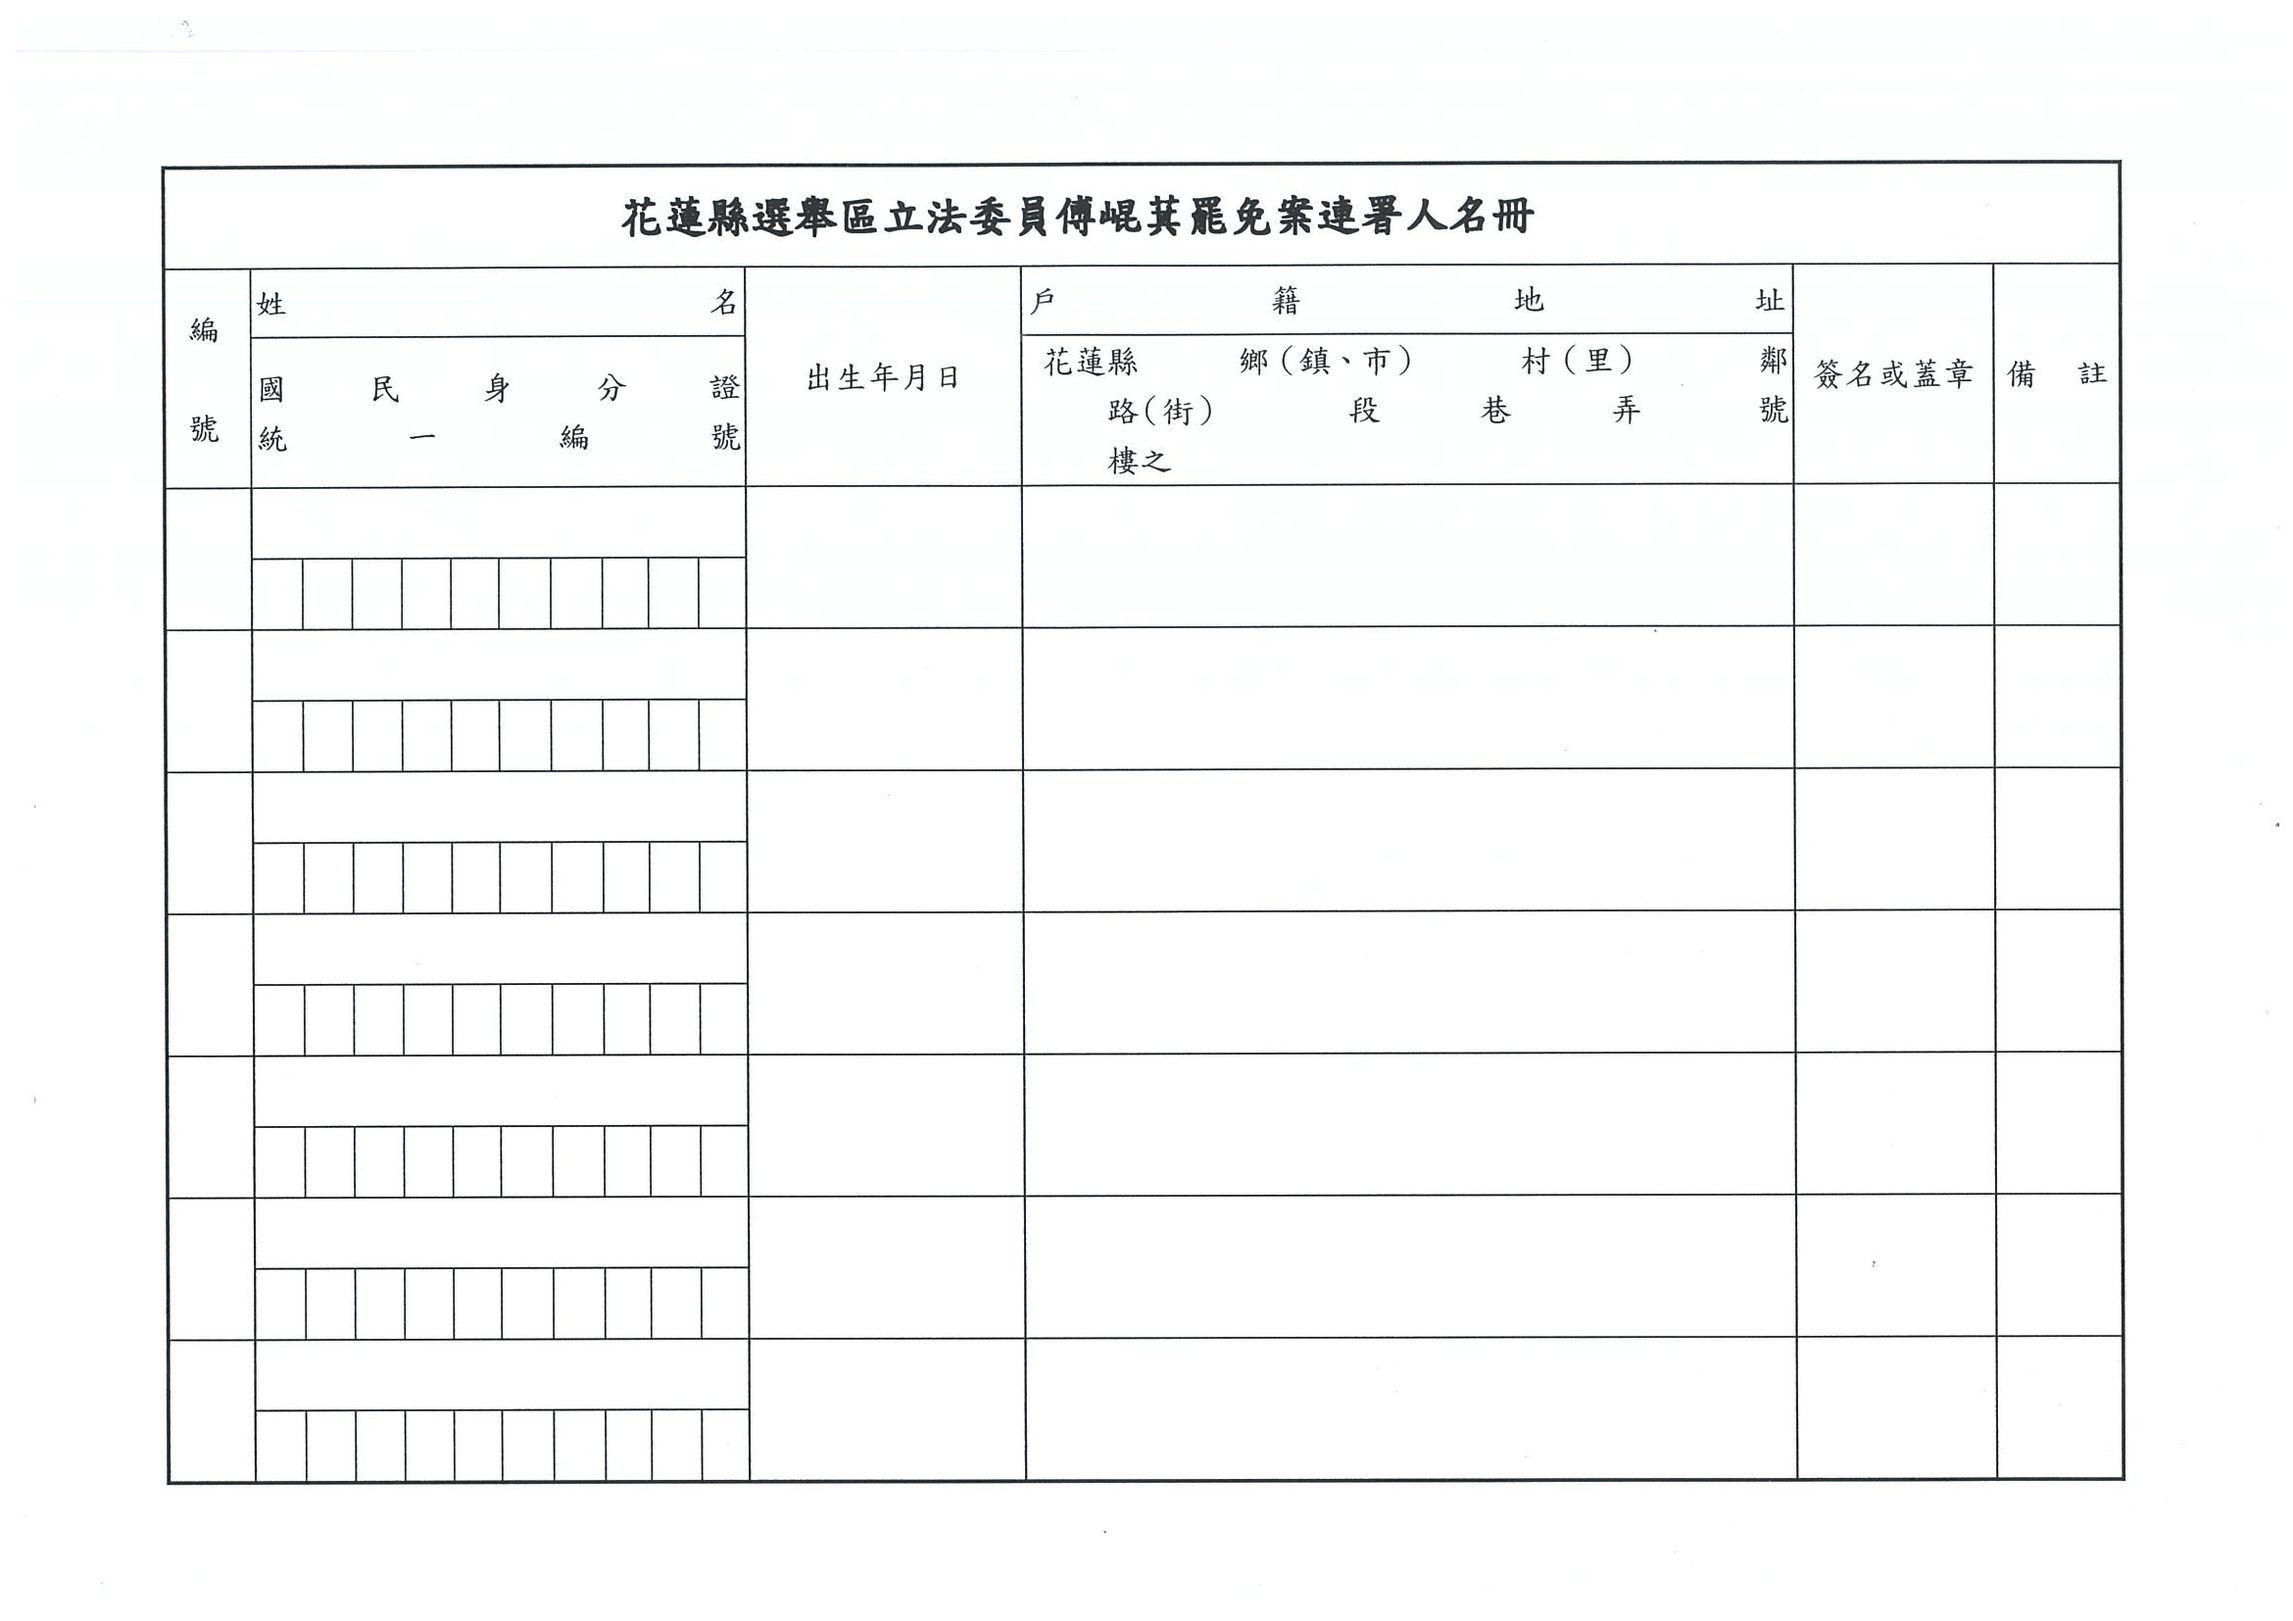
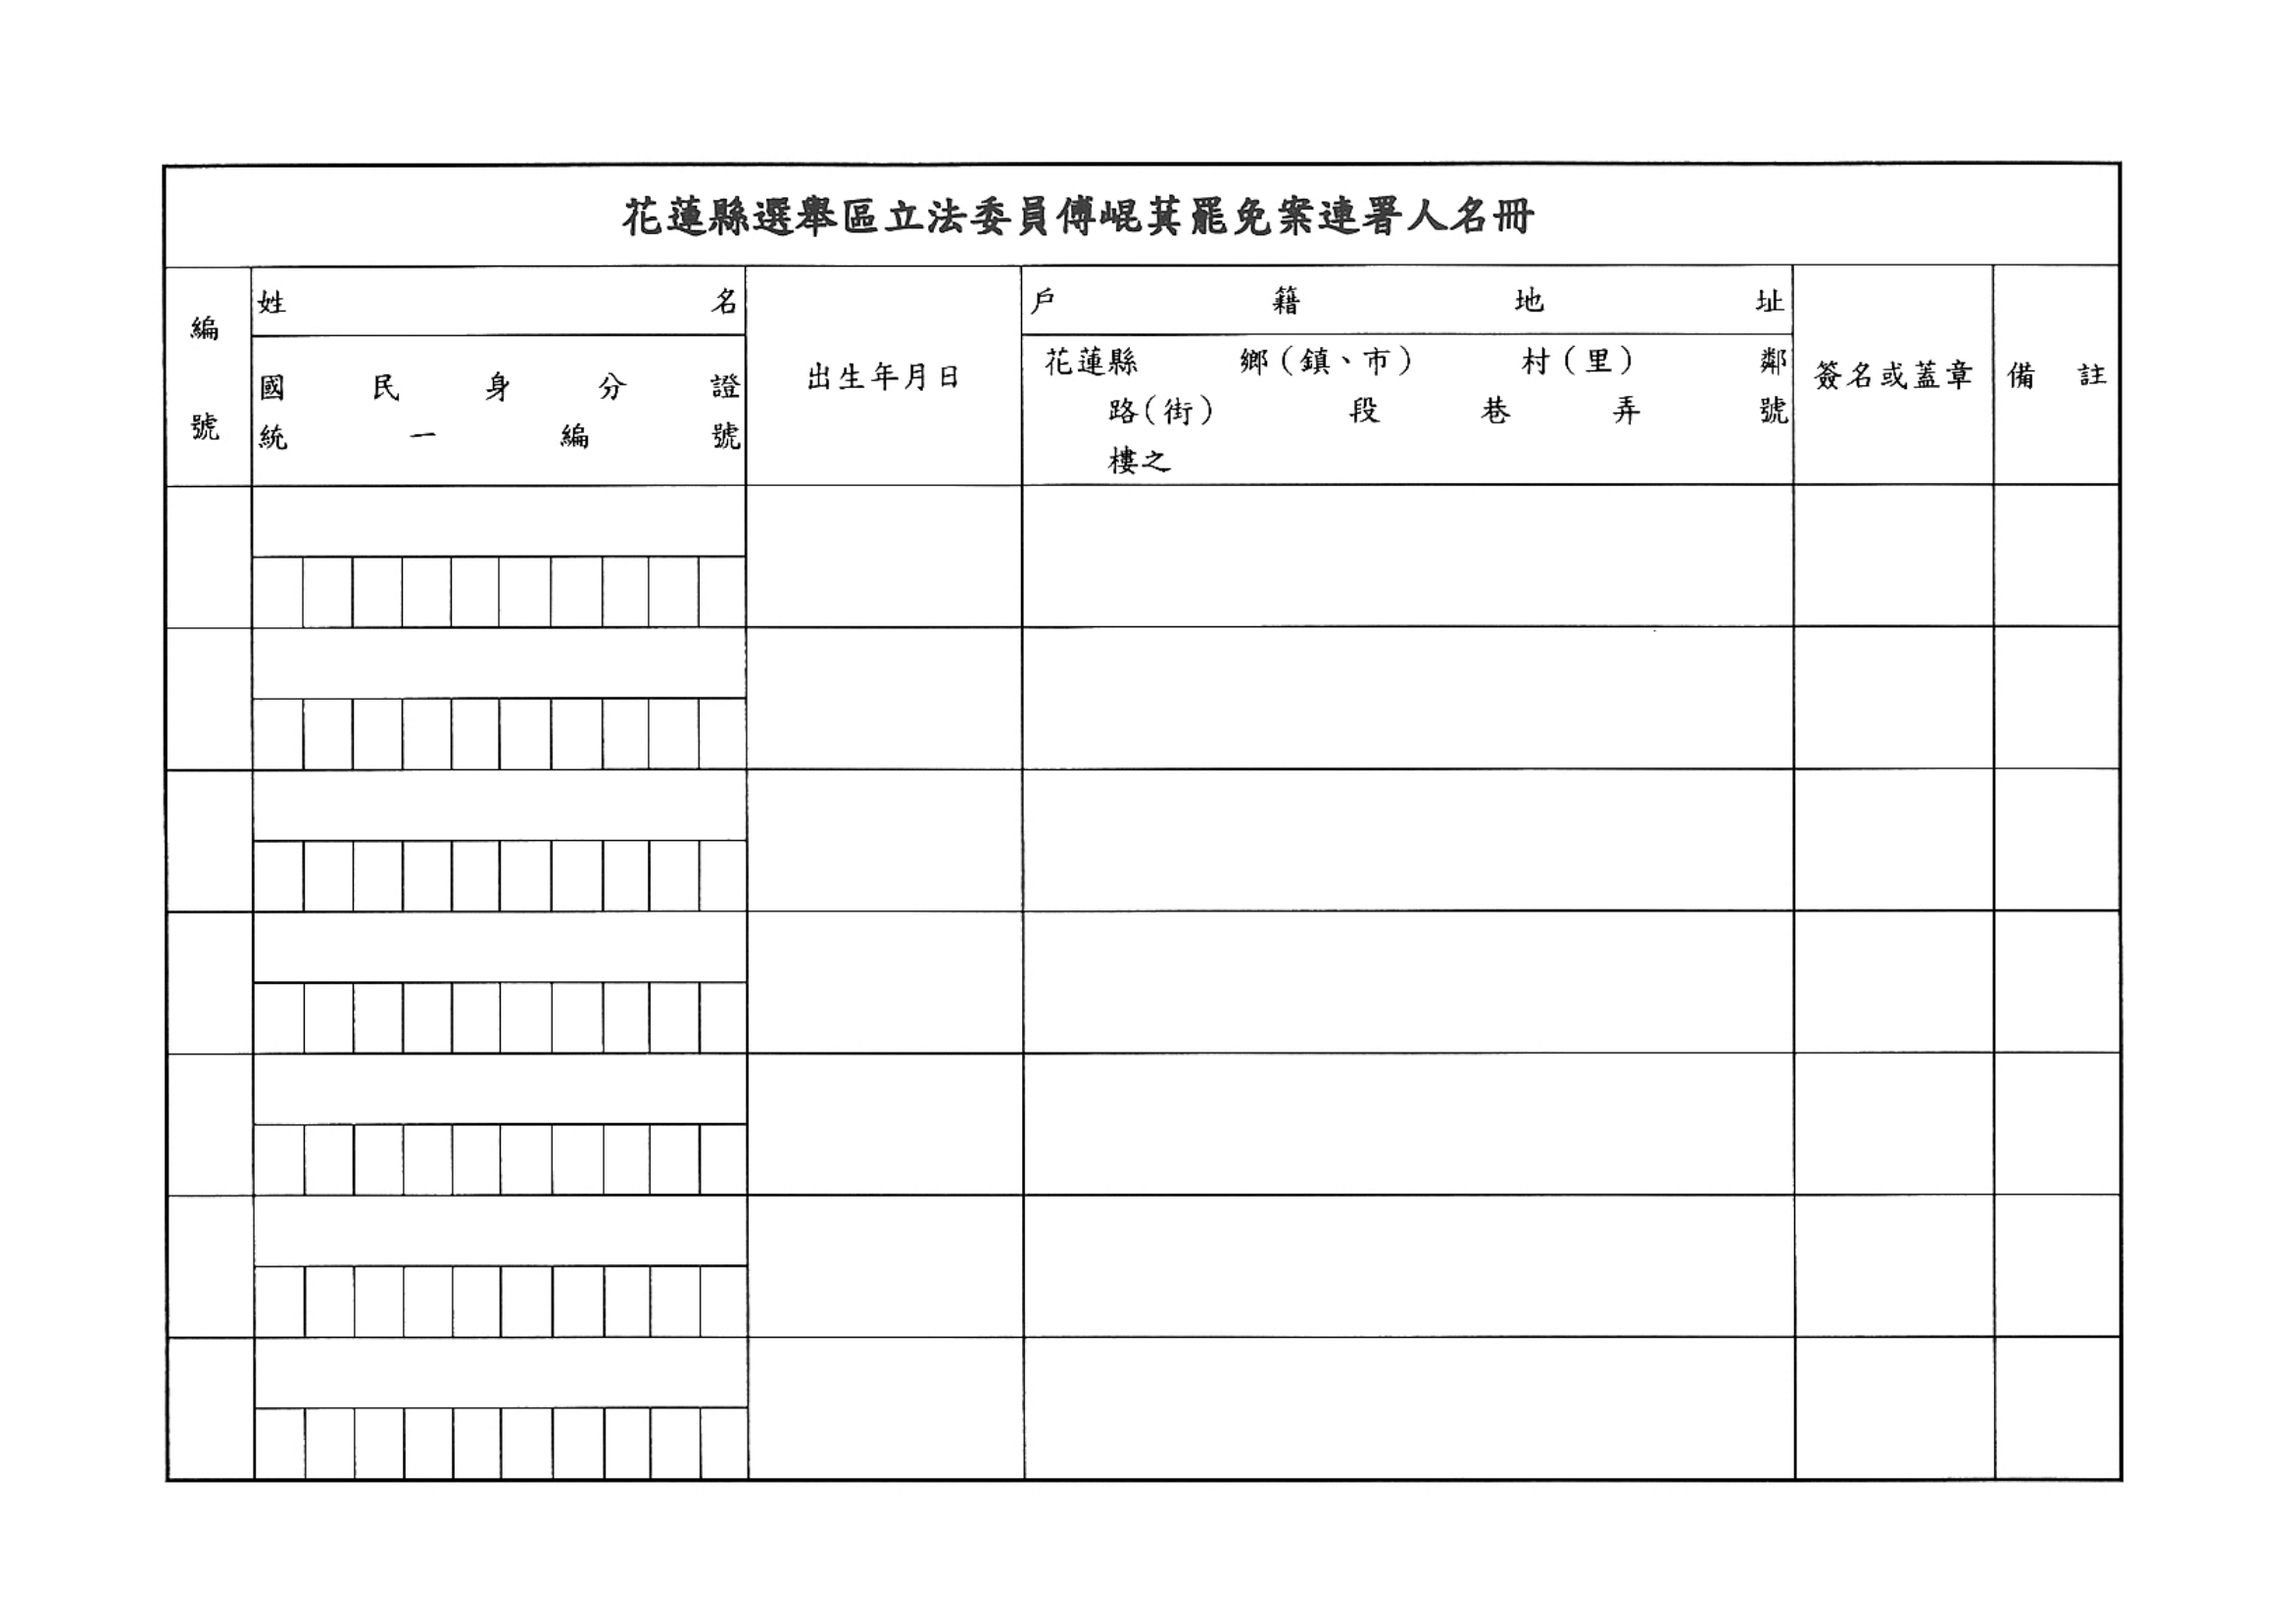
update png hualien

diff --git a/templates/stage-2-傅崐萁.html b/templates/stage-2-傅崐萁.html
@@ -9,18 +9,18 @@
 	<div class="a4-landscape">
 		<div class="a4-inner-container">
 			<div class="img-container">
-				<img src="{{.BaseURL}}/assets/images/stage-2-{{.PoliticianName}}.png" style="transform:rotate(0.2deg);">
+				<img src="{{.BaseURL}}/assets/images/stage-2-{{.PoliticianName}}.png?v2" style="transform:rotate(0.2deg);">
 			</div>
-			<div class="inputField center md" style="left:21.9%; top:29.5%; letter-spacing:0.2em">
+			<div class="inputField center md" style="left:21.9%; top:29.3%; letter-spacing:0.2em">
 				{{.Name}}
 			</div>
 			<div class="inputField center md" style="left:22.4%; top:34%; letter-spacing:0.71em">
 				{{.IdNumber.D0}}{{.IdNumber.D1}}{{.IdNumber.D2}}{{.IdNumber.D3}}{{.IdNumber.D4}}{{.IdNumber.D5}}{{.IdNumber.D6}}{{.IdNumber.D7}}{{.IdNumber.D8}}{{.IdNumber.D9}}
 			</div>
-			<div class="inputField center sm" style="left:38.6%; top:33%; letter-spacing:0.02em">
+			<div class="inputField center sm" style="left:38.6%; top:32.9%; letter-spacing:0.02em">
 				{{.BirthYear}} 年 {{.BirthMonth}} 月 {{.BirthDate}} 日
 			</div>
-			<div class="inputField center xsm" style="left:61.5%; top:21.7%; width:32.8%; height:25%;">
+			<div class="inputField center xsm" style="left:61.6%; top:21.7%; width:32.8%; height:25%;">
 				{{.Address}}
 			</div>
 			<div class="whereToSign" style="left:82.6%; top:34.2%; width:7.6%; height:7.4%;"></div>
